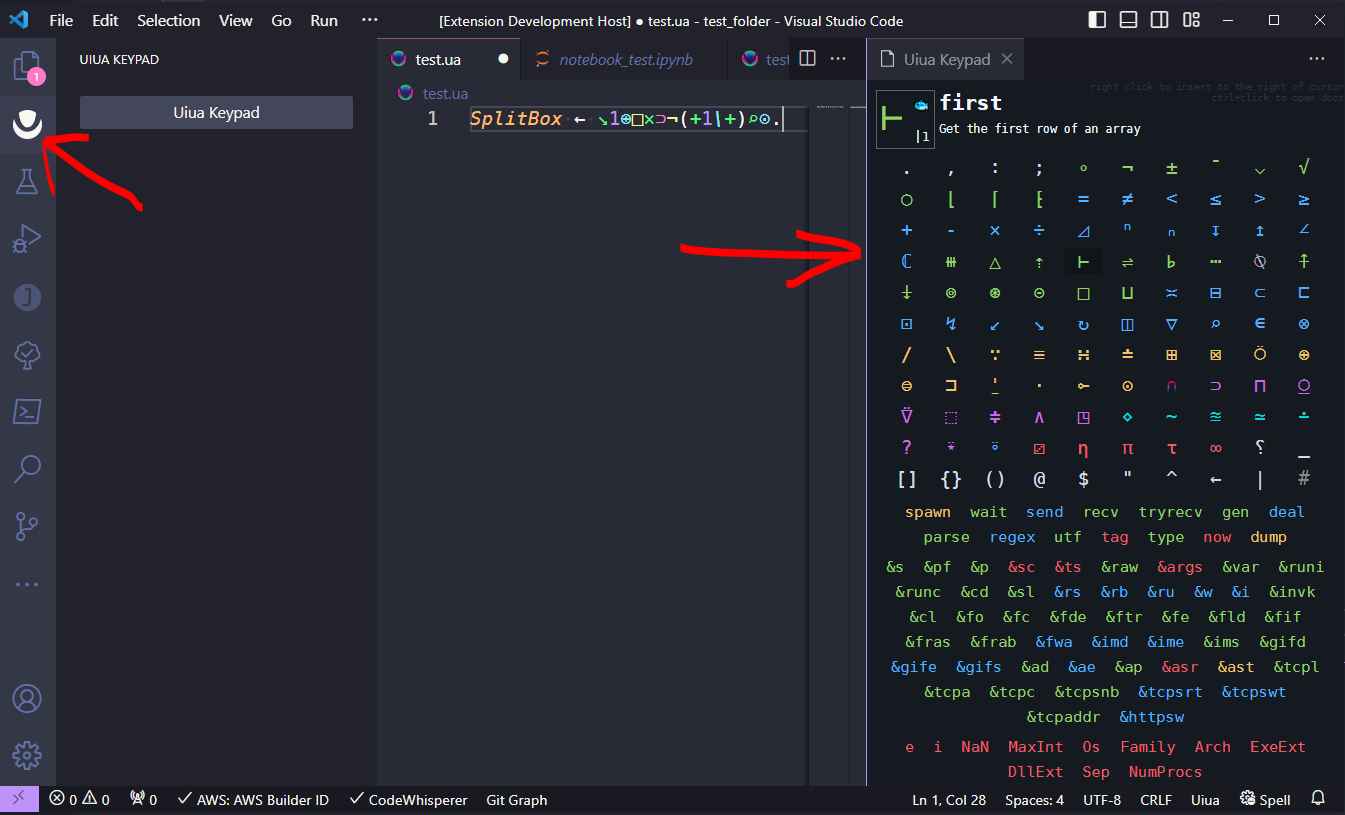
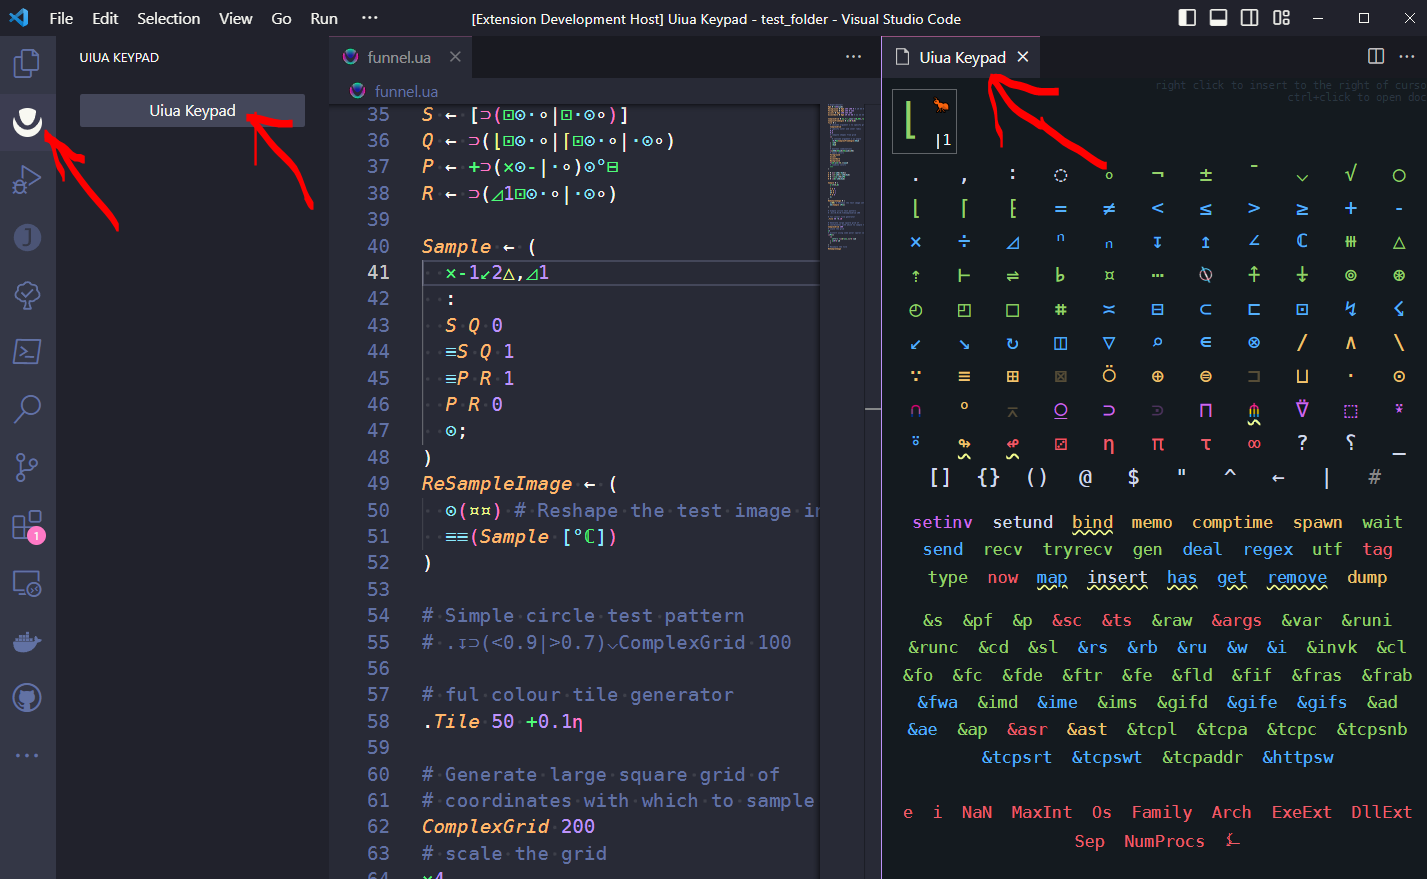
rev up to v0.2.2 - support uiua v0.8.0

diff --git a/webview_keypad/primitives.js b/webview_keypad/primitives.js
@@ -35,7 +35,7 @@ const primitives=[
     {
         "name": "pop",
         "description": "Discard the top stack value",
-        "glyph": ";",
+        "glyph": "◌",
         "count_inputs": 1,
         "count_outputs": 0,
         "count_modifier_inputs": null,
@@ -419,7 +419,7 @@ const primitives=[
     },
     {
         "name": "bits",
-        "description": "Encode an array as bits (MSB-first)",
+        "description": "Encode an array as bits (LSB-first)",
         "glyph": "⋯",
         "count_inputs": 1,
         "count_outputs": 1,
@@ -486,7 +486,18 @@ const primitives=[
     {
         "name": "deduplicate",
         "description": "Remove duplicate elements from an array",
-        "glyph": "⊝",
+        "glyph": "◴",
+        "count_inputs": 1,
+        "count_outputs": 1,
+        "count_modifier_inputs": null,
+        "primitive_class": "MonadicArray",
+        "experimental": false,
+        "deprecated": false
+    },
+    {
+        "name": "unique",
+        "description": "Get a mask of first occurrences of items in an array",
+        "glyph": "◰",
         "count_inputs": 1,
         "count_outputs": 1,
         "count_modifier_inputs": null,
@@ -504,17 +515,6 @@ const primitives=[
         "primitive_class": "MonadicArray",
         "experimental": false,
         "deprecated": false
-    },
-    {
-        "name": "unbox",
-        "description": "Take an array out of a box",
-        "glyph": "⊔",
-        "count_inputs": 1,
-        "count_outputs": 1,
-        "count_modifier_inputs": null,
-        "primitive_class": "MonadicArray",
-        "experimental": false,
-        "deprecated": true
     },
     {
         "name": "parse",
@@ -749,7 +749,7 @@ const primitives=[
     },
     {
         "name": "table",
-        "description": "Apply a function to each combination of elements of two arrays",
+        "description": "Apply a function to each combination of rows of two arrays",
         "glyph": "⊞",
         "count_inputs": 2,
         "count_outputs": 1,
@@ -767,7 +767,7 @@ const primitives=[
         "count_modifier_inputs": 1,
         "primitive_class": "IteratingModifier",
         "experimental": false,
-        "deprecated": false
+        "deprecated": true
     },
     {
         "name": "repeat",
@@ -806,6 +806,17 @@ const primitives=[
         "name": "unpack",
         "description": "Apply a function with implicit unboxing",
         "glyph": "⊐",
+        "count_inputs": null,
+        "count_outputs": 1,
+        "count_modifier_inputs": 1,
+        "primitive_class": "OtherModifier",
+        "experimental": false,
+        "deprecated": true
+    },
+    {
+        "name": "content",
+        "description": "Unbox the arguments to a function before calling it",
+        "glyph": "⊔",
         "count_inputs": null,
         "count_outputs": 1,
         "count_modifier_inputs": 1,
@@ -866,7 +877,7 @@ const primitives=[
         "count_modifier_inputs": 1,
         "primitive_class": "InversionModifier",
         "experimental": true,
-        "deprecated": false
+        "deprecated": true
     },
     {
         "name": "setinv",
@@ -911,6 +922,17 @@ const primitives=[
         "primitive_class": "Planet",
         "experimental": false,
         "deprecated": false
+    },
+    {
+        "name": "cascade",
+        "description": "Call one function after another, reusing some values",
+        "glyph": "⪾",
+        "count_inputs": null,
+        "count_outputs": 1,
+        "count_modifier_inputs": 2,
+        "primitive_class": "Planet",
+        "experimental": true,
+        "deprecated": true
     },
     {
         "name": "bracket",
@@ -1009,6 +1031,17 @@ const primitives=[
         "count_modifier_inputs": null,
         "primitive_class": "Misc",
         "experimental": false,
+        "deprecated": false
+    },
+    {
+        "name": "bind",
+        "description": "Bind local values",
+        "glyph": null,
+        "count_inputs": null,
+        "count_outputs": 1,
+        "count_modifier_inputs": 1,
+        "primitive_class": "OtherModifier",
+        "experimental": true,
         "deprecated": false
     },
     {
@@ -1207,6 +1240,61 @@ const primitives=[
         "count_modifier_inputs": null,
         "primitive_class": "Constant",
         "experimental": false,
+        "deprecated": false
+    },
+    {
+        "name": "map",
+        "description": "Create a hashmap from lists of keys and values",
+        "glyph": null,
+        "count_inputs": 2,
+        "count_outputs": 1,
+        "count_modifier_inputs": null,
+        "primitive_class": "Map",
+        "experimental": true,
+        "deprecated": false
+    },
+    {
+        "name": "insert",
+        "description": "Insert a key-value pair into a map array",
+        "glyph": null,
+        "count_inputs": 3,
+        "count_outputs": 1,
+        "count_modifier_inputs": null,
+        "primitive_class": "Map",
+        "experimental": true,
+        "deprecated": false
+    },
+    {
+        "name": "has",
+        "description": "Check if a map array has a key",
+        "glyph": null,
+        "count_inputs": 2,
+        "count_outputs": 1,
+        "count_modifier_inputs": null,
+        "primitive_class": "Map",
+        "experimental": true,
+        "deprecated": false
+    },
+    {
+        "name": "get",
+        "description": "Get the value corresponding to a key in a map array",
+        "glyph": null,
+        "count_inputs": 2,
+        "count_outputs": 1,
+        "count_modifier_inputs": null,
+        "primitive_class": "Map",
+        "experimental": true,
+        "deprecated": false
+    },
+    {
+        "name": "remove",
+        "description": "Remove the value corresponding to a key from a map array",
+        "glyph": null,
+        "count_inputs": 2,
+        "count_outputs": 1,
+        "count_modifier_inputs": null,
+        "primitive_class": "Map",
+        "experimental": true,
         "deprecated": false
     },
     {

diff --git a/webview_keypad/main.js b/webview_keypad/main.js
@@ -26,6 +26,17 @@ function set_tooltip(primitive) {
         tooltip_subtitle.innerText = primitive.description;
         periodic_glyph_div.innerText = primitive.glyph ?? "";
         periodic_glyph_div.setAttribute("class", "code-font use-glyph-font " + primitive_style(primitive));
+        if (primitive.deprecated && primitive.experimental){
+            periodic_glyph_div.classList.add("deprecated");
+            periodic_glyph_div.classList.add("experimental");
+            tooltip_subtitle.innerText = "🧪⚠ Experimental & Deprecated: " + tooltip_subtitle.innerText;
+        }else if(primitive.deprecated){
+            periodic_glyph_div.classList.add("deprecated");
+            tooltip_subtitle.innerText = "⚠ Deprecated: " + tooltip_subtitle.innerText;
+        }else if(primitive.experimental){
+            periodic_glyph_div.classList.add("experimental");
+            tooltip_subtitle.innerText = "🧪 Experimental: "+tooltip_subtitle.innerText
+        }
         periodic_signature_div.innerText = primitive_signature(primitive)
         const indicatorsMap = {
             "Pervasive"   : "🐜",
@@ -36,6 +47,7 @@ function set_tooltip(primitive) {
             "Control"     : "🕹",
             "Iterating"   : "🍇",
             "Stack"       : "🥞",
+            "Map"         : "🗺",
         };
         const other_indicators = Object.keys(indicatorsMap).reduce(
             (acc, key) => primitive.primitive_class?.includes(key) ? acc + indicatorsMap[key] : acc,
@@ -100,6 +112,14 @@ for(let primitive of [...primitives, ...extra_primitives]){
     
     let text_to_write = primitive.glyph || primitive.name;
     button_inner_div.innerText = text_to_write;
+
+    if(primitive.deprecated){
+        button.classList.add("deprecated");
+    }
+    if(primitive.experimental){
+        button.classList.add("experimental");
+    }
+
     
 
     // TODO: having trouble with this... should able to ignore this at the document level

diff --git a/webview_keypad/index.css b/webview_keypad/index.css
@@ -83,6 +83,7 @@ tooltip-display,tooltip-display-desc {
     font-weight: bold;
 }
 #tooltip-display-desc{
+    font-family: sans-serif;
     grid-area: c;
     font-size: 0.6em;
     white-space: nowrap;
@@ -216,4 +217,12 @@ label:hover{
     z-index: -100;
     color: #2a3641;
     text-align: right;
+}
+
+.deprecated{
+    opacity: 30%;
+}
+
+.experimental{
+    text-decoration: wavy #F1FA8C underline;
 }

diff --git a/CHANGELOG.md b/CHANGELOG.md
@@ -3,6 +3,10 @@
 All notable changes to the "uiua-keypad" extension will be documented in this
 file.
 
+## [0.2.2] - 2024-02-02
+
+- upgrade to uiua v0.8.0
+
 ## [0.2.1] - 2024-01-20
 
 - After some consideration... switching back to supporting the latest crates.io
